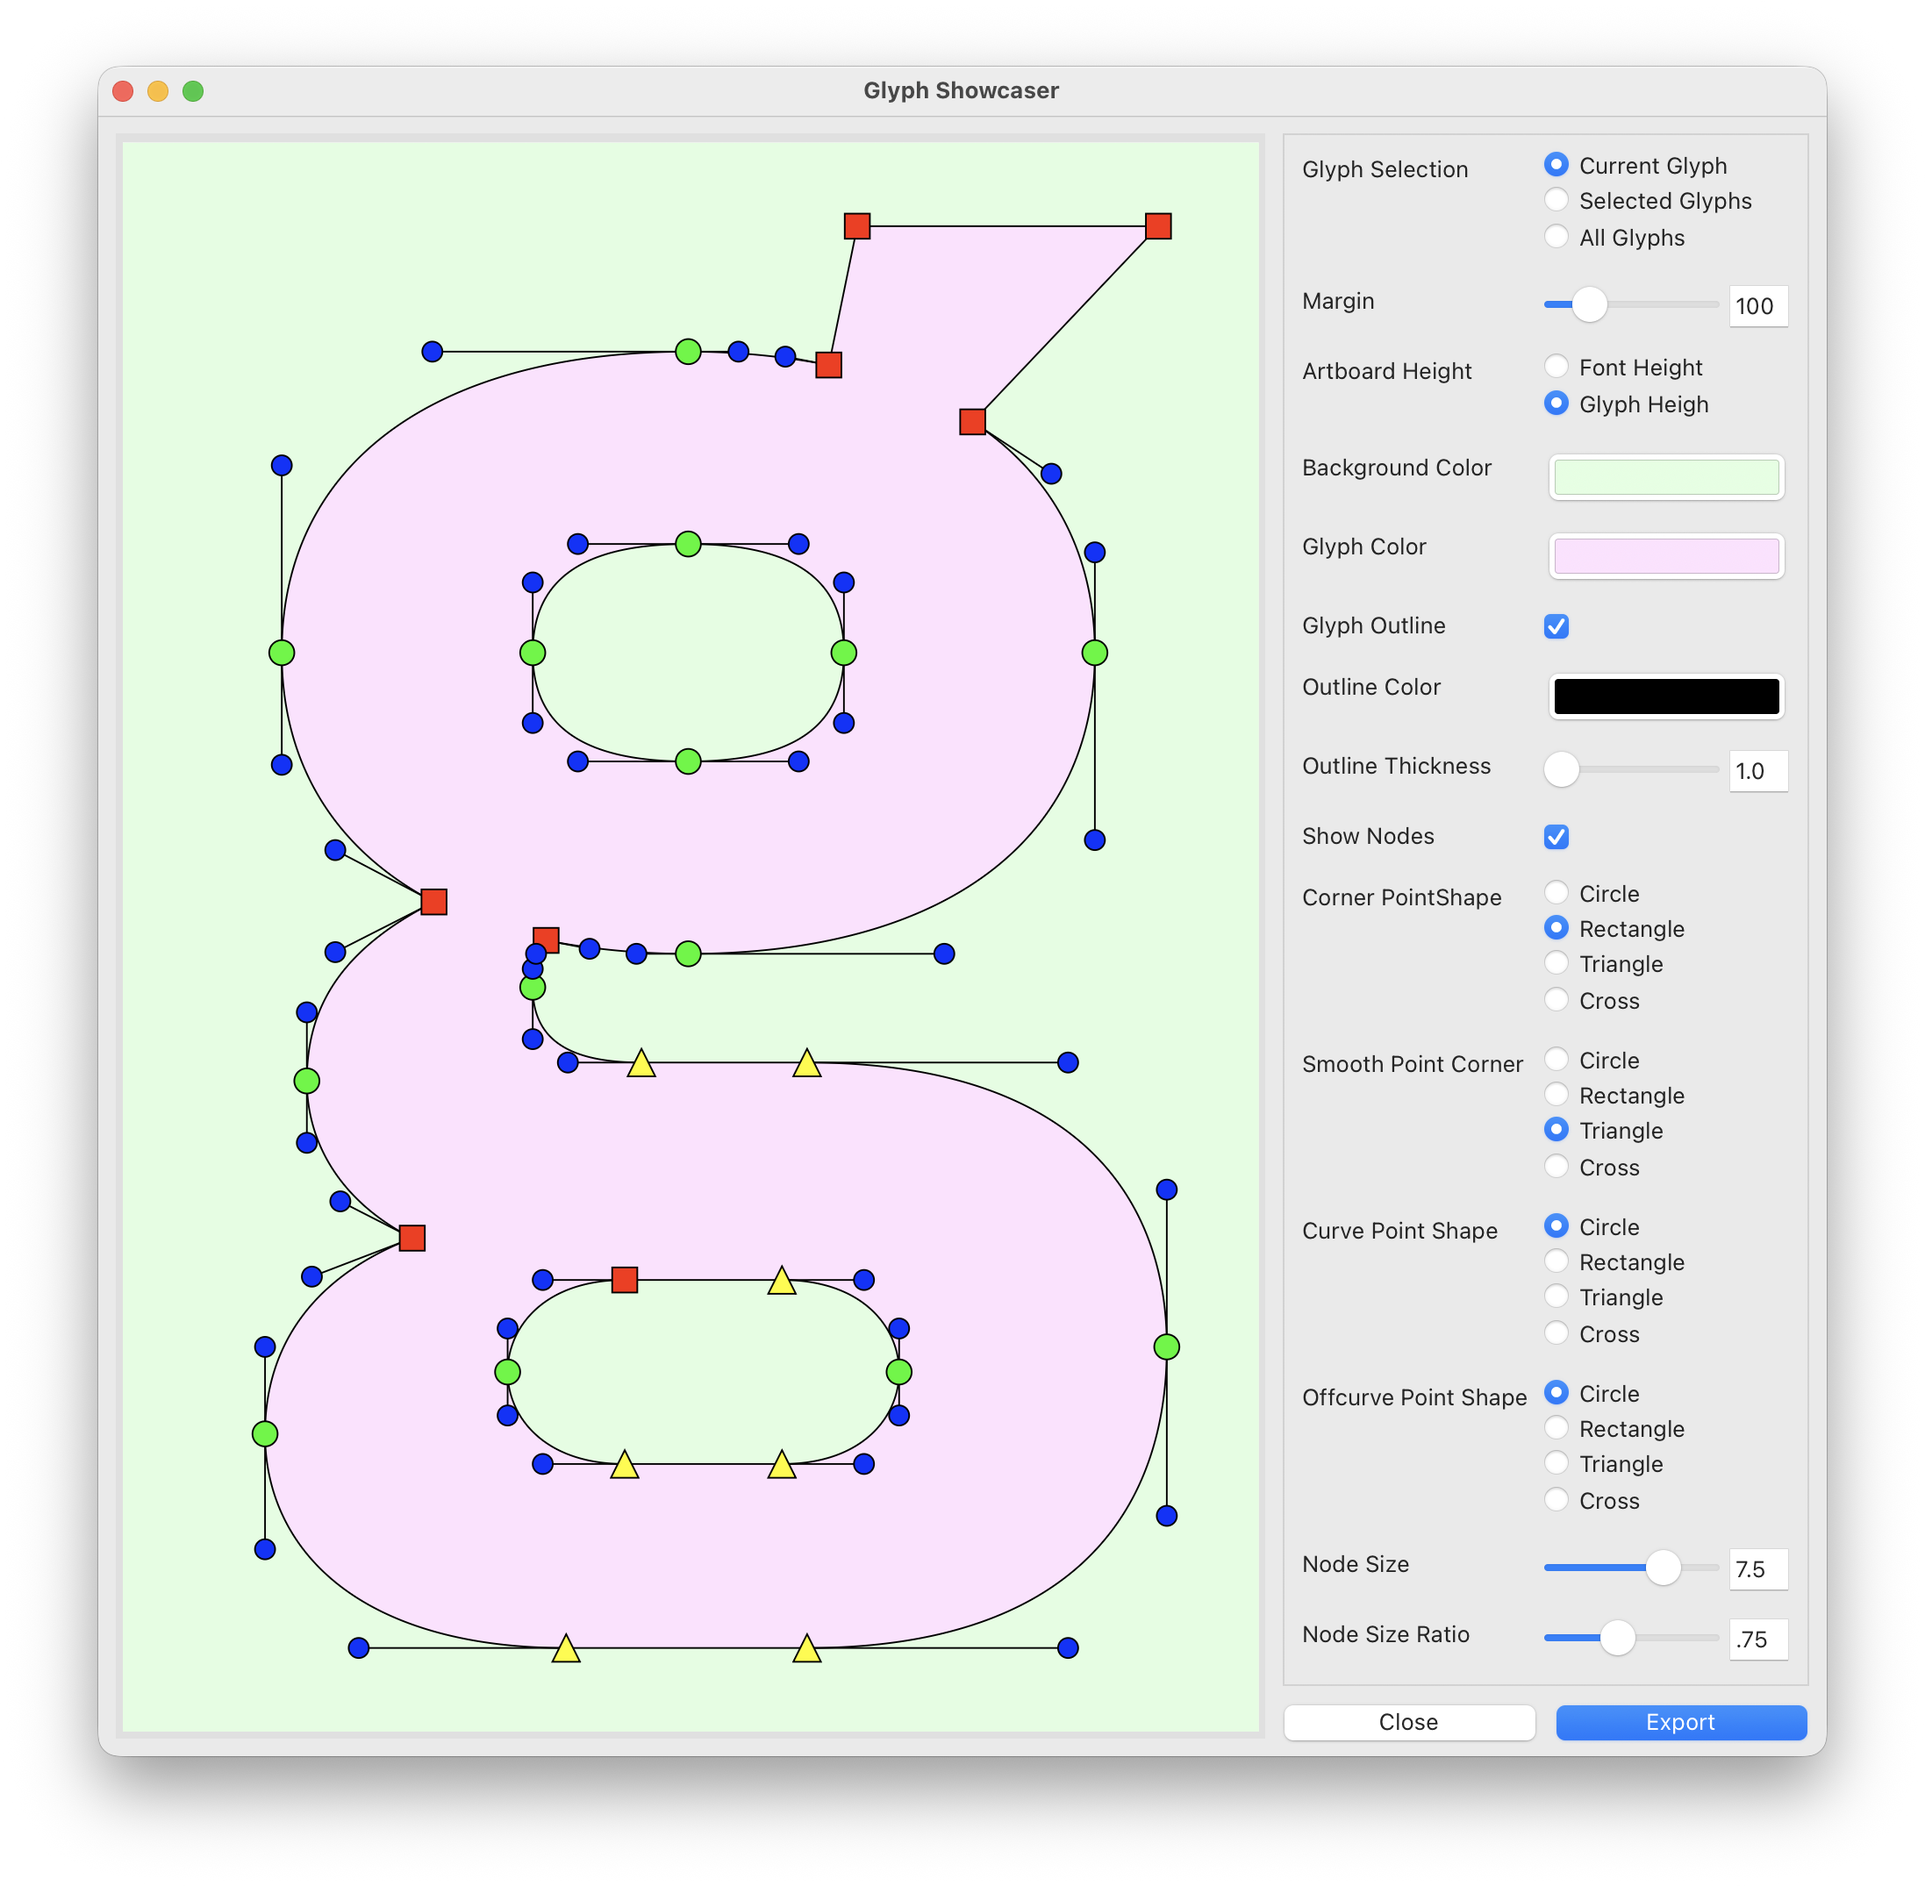
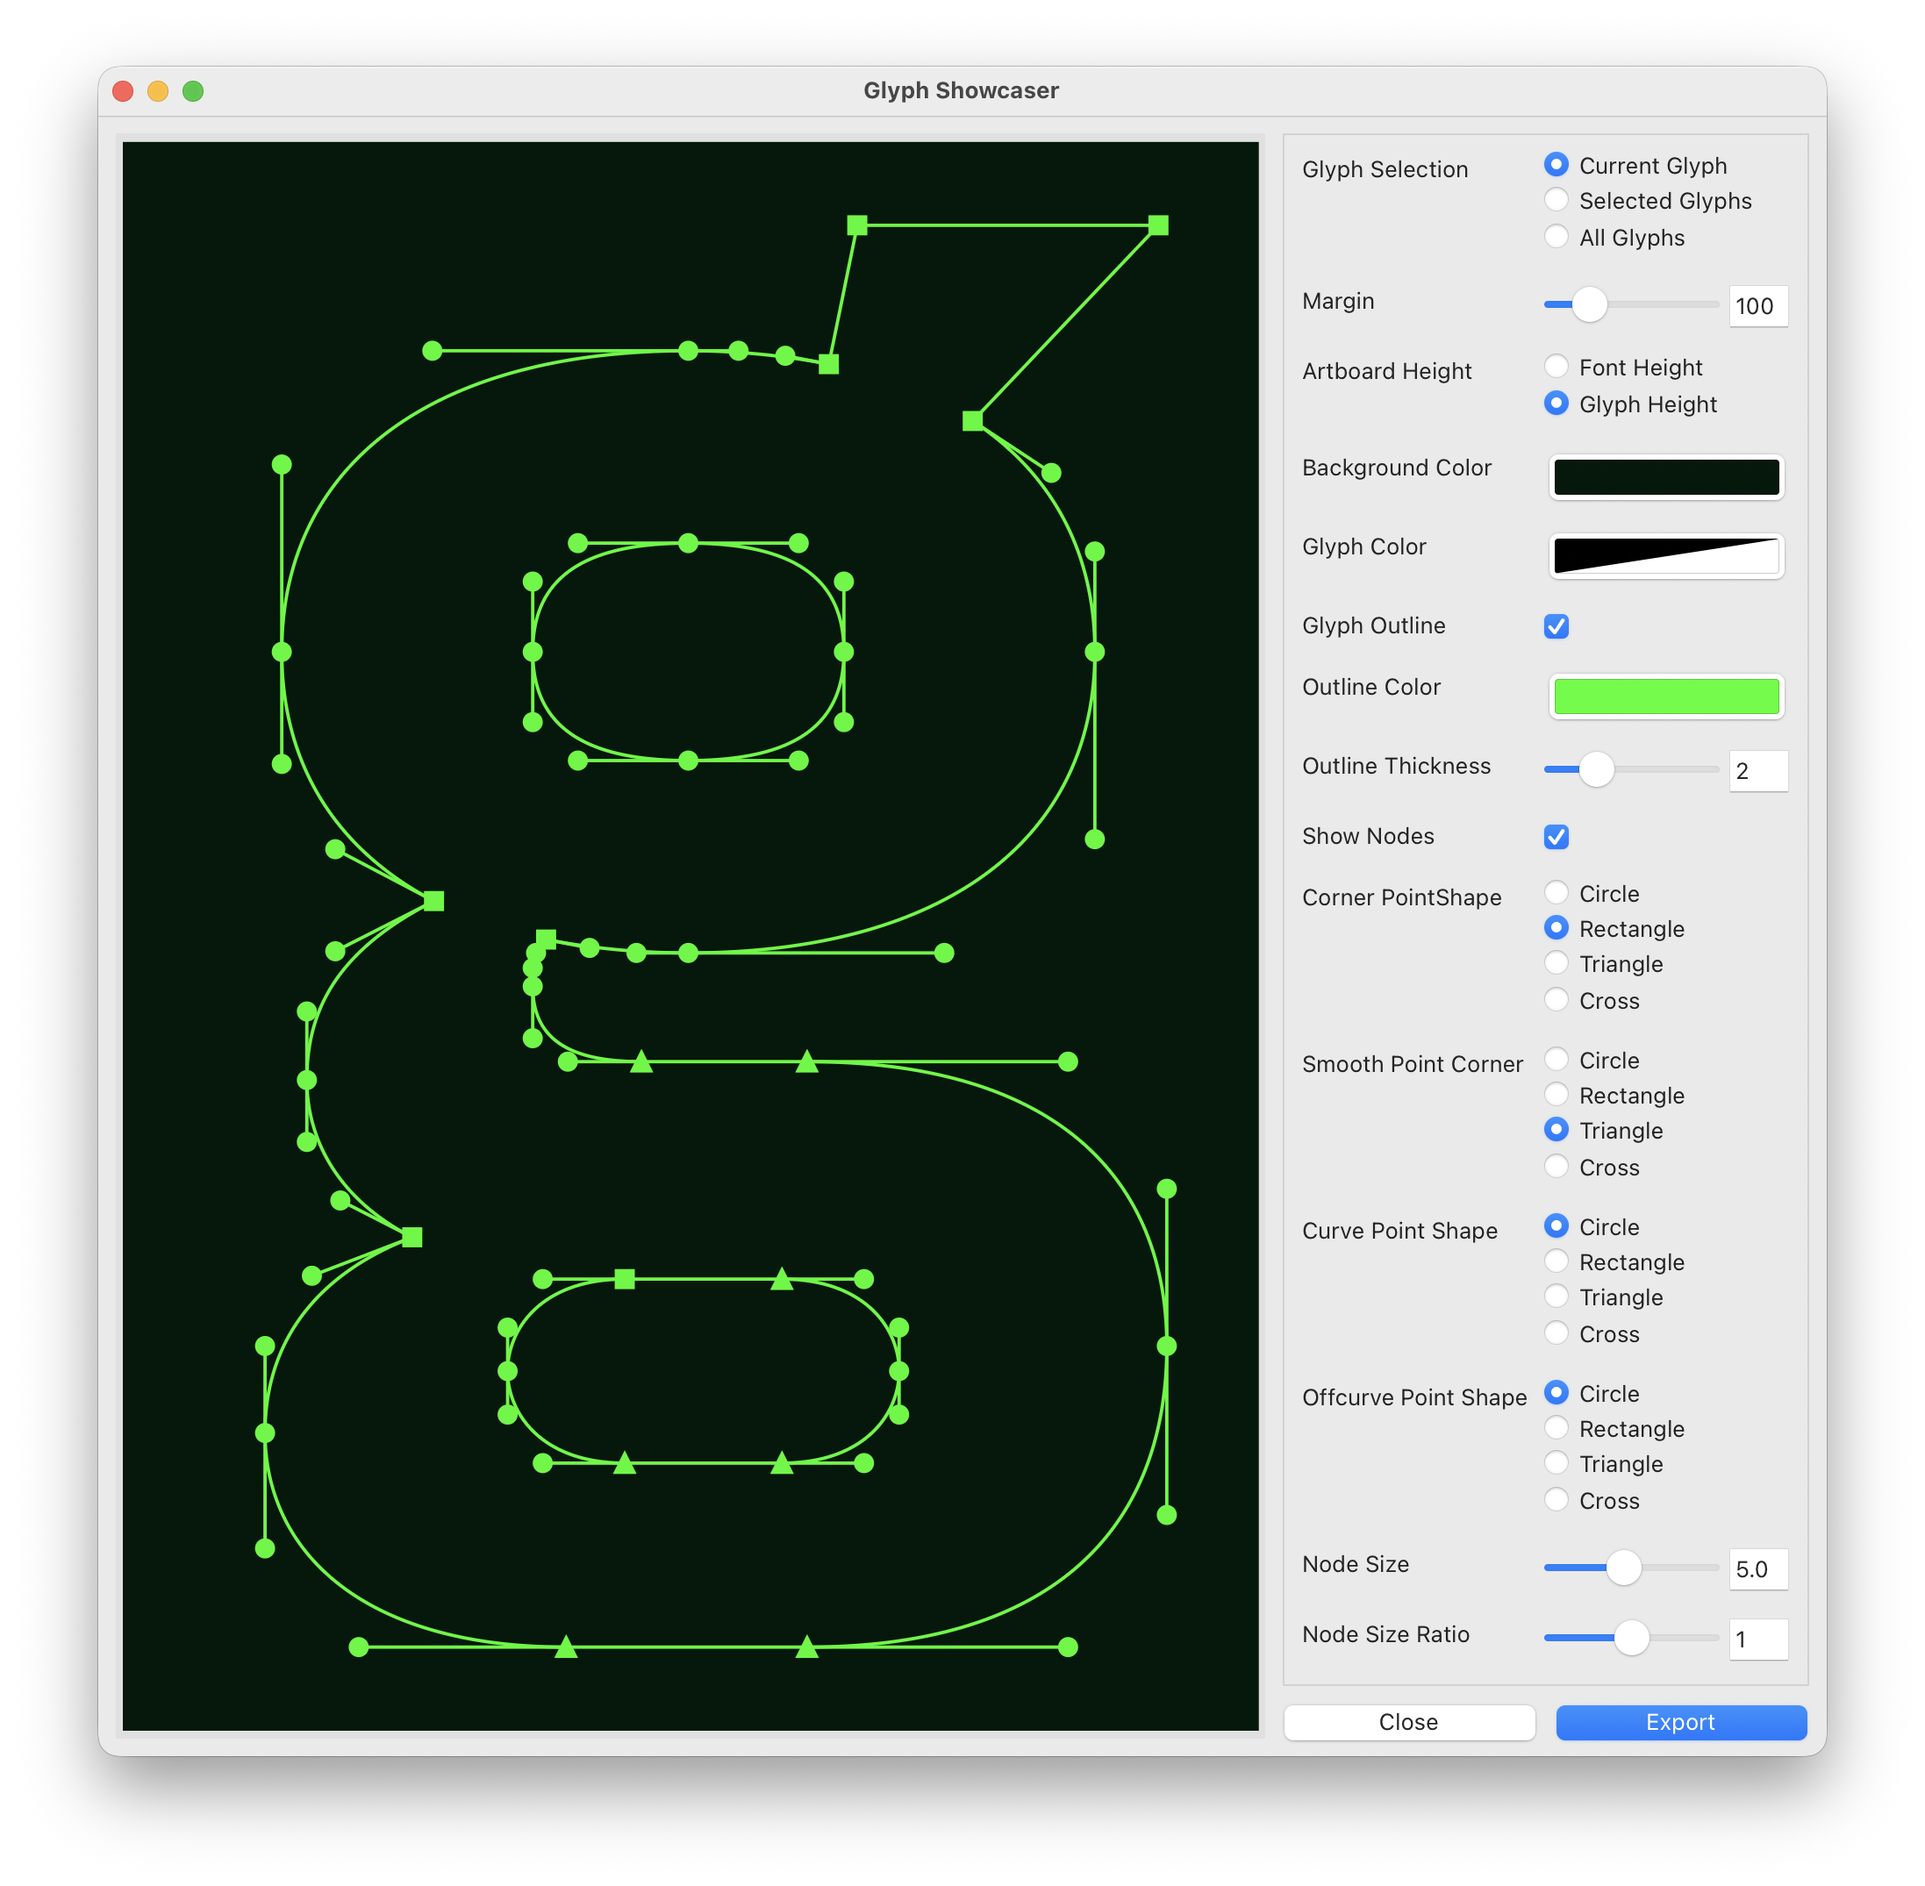
update img for new UI

diff --git a/GlyphShowcaser.py b/GlyphShowcaser.py
@@ -71,7 +71,7 @@ class GlyphShowcaser:
 
 		# height
 		self.w.controls.artboardHeightLabel = TextBox((x1, y, w1, h), 'Artboard Height')
-		self.w.controls.artboardHeight = VerticalRadioGroup((x2, y-2.5, w2, h * 2), ['Font Height', 'Glyph Heigh'], callback = self.redraw)
+		self.w.controls.artboardHeight = VerticalRadioGroup((x2, y-2.5, w2, h * 2), ['Font Height', 'Glyph Height'], callback = self.redraw)
 		self.w.controls.artboardHeight.set(0)
 		y += dy + h
 
@@ -367,11 +367,18 @@ class GlyphShowcaser:
 
 	def drawNodes(self, x, y, s, shape, pointColor, strokeColor):
 
+		makeNodesOutlineColor = self.w.controls.makeNodesOutlineColCheck.get()
+		outlineColor = self.w.controls.outlineColor.get()
+	
 		outlineThickness = self.w.controls.outlineThicknessSlider.get()
 		drawBot.strokeWidth(outlineThickness)
 
 		drawBot.fill(pointColor)
 		drawBot.stroke(strokeColor)
+
+		if makeNodesOutlineColor:
+			drawBot.fill(outlineColor)
+			drawBot.stroke(outlineColor)
 
 		if shape == 0:
 								
